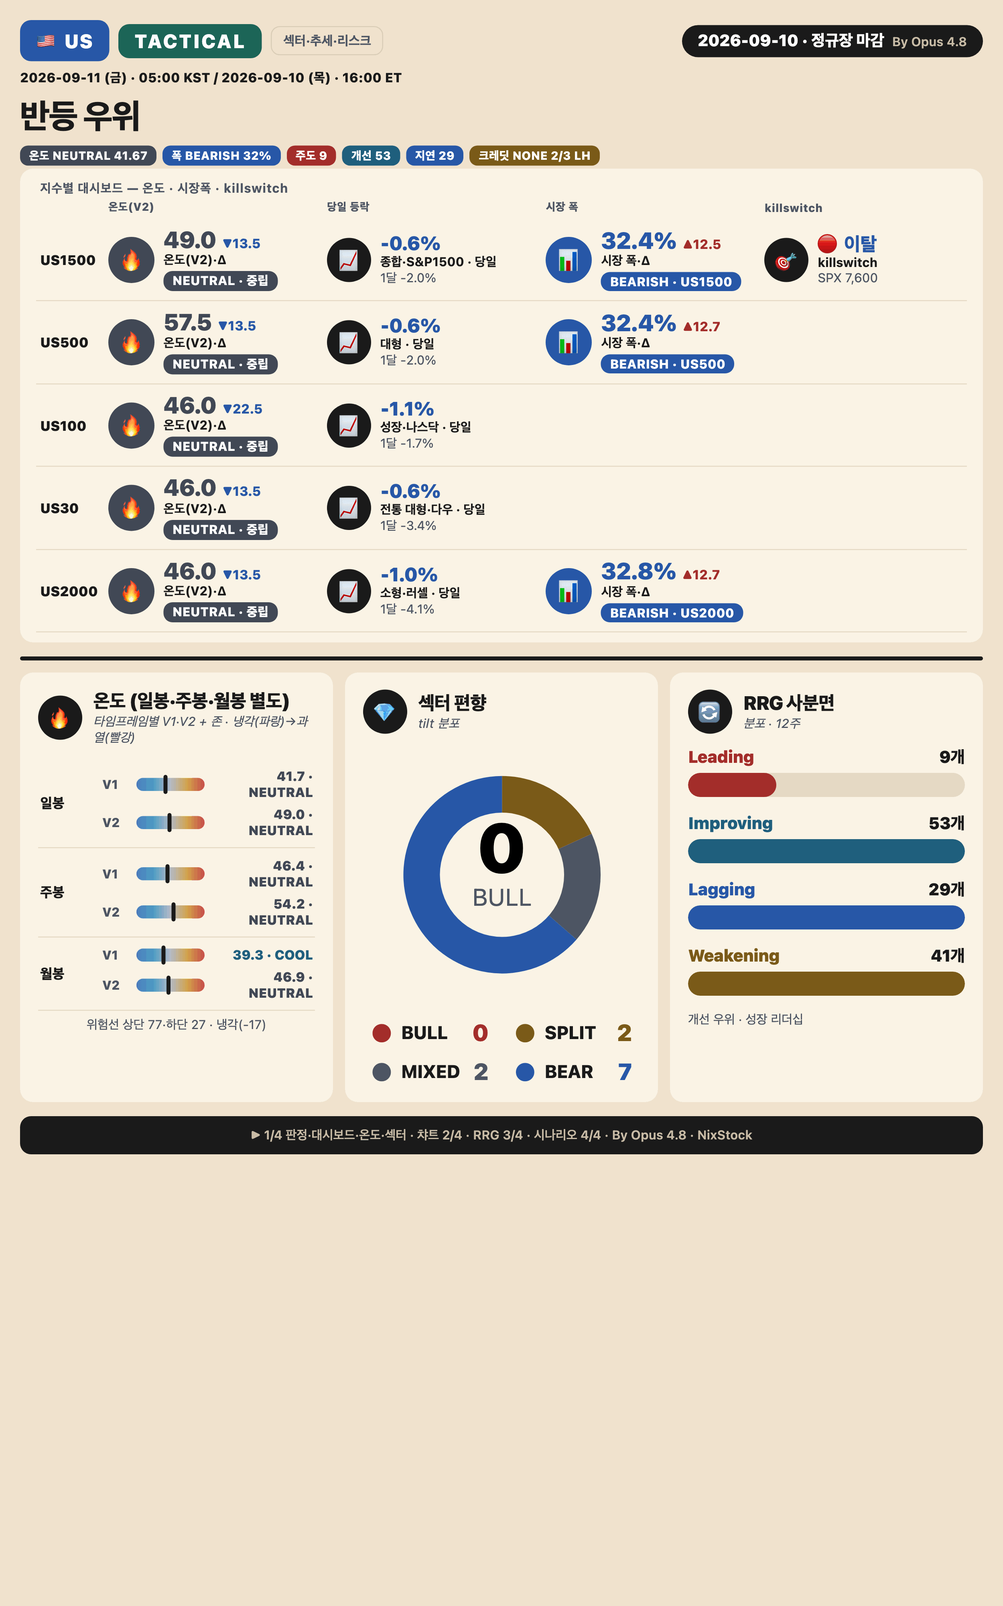
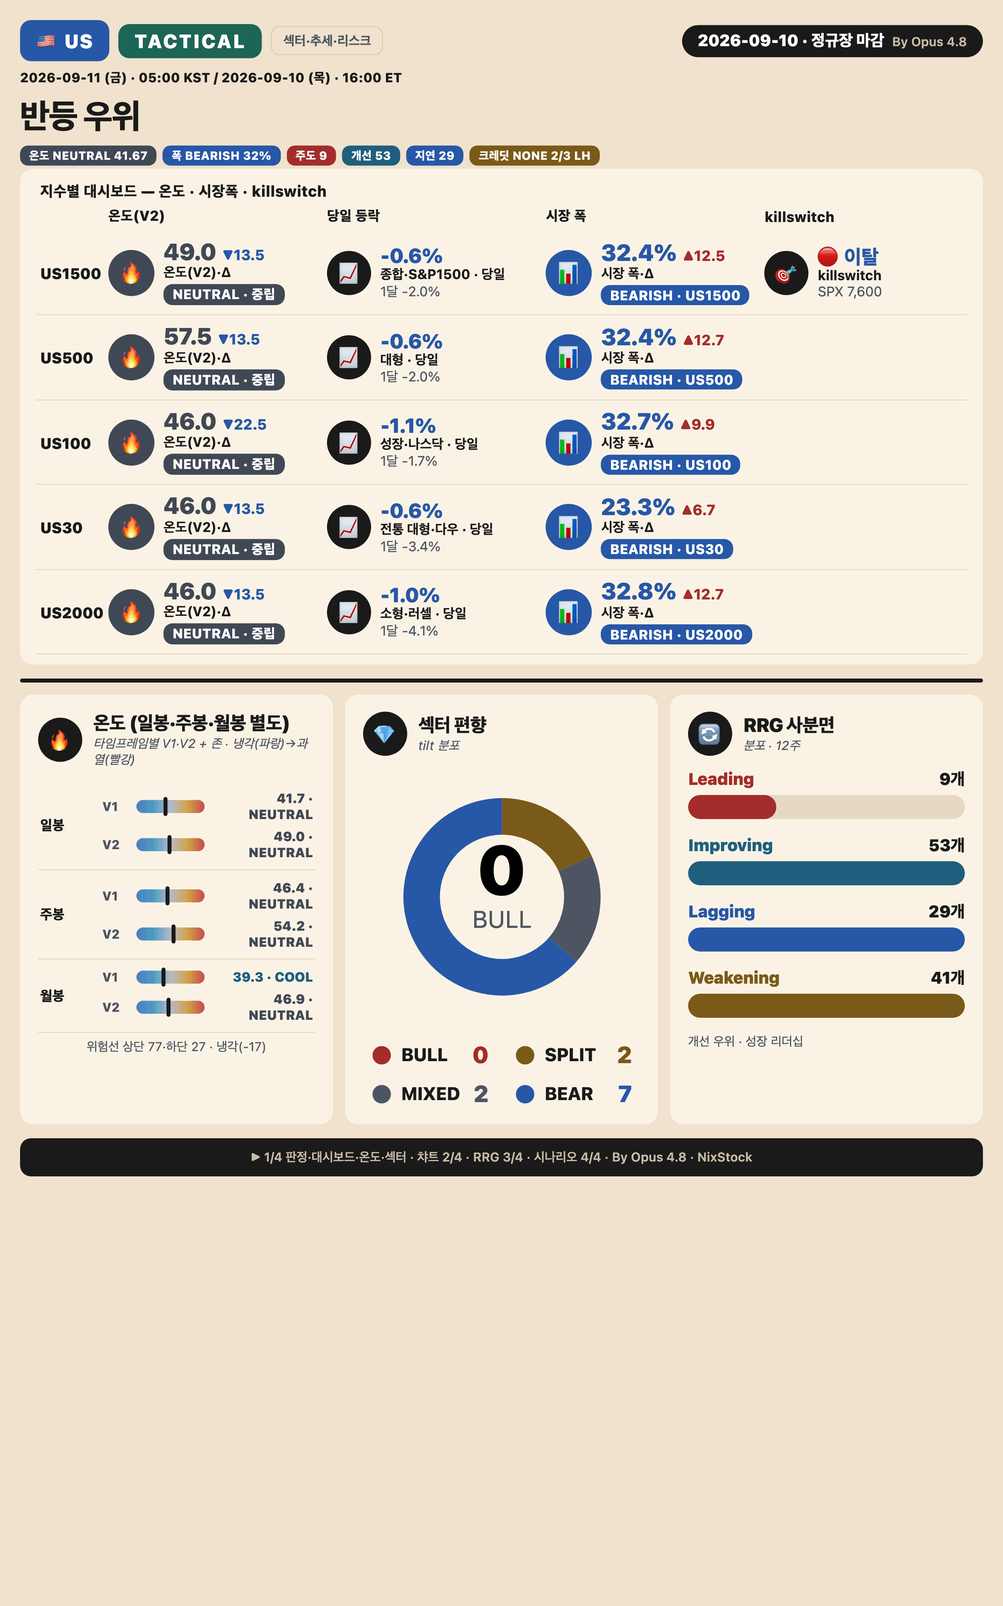
deploy: 2026-09-11 /Users/jichoi/Downloads/to_claude_web/tactical/2026-09-10_us_tactical_close

Changed region(s): [[0.0, 0.0938, 0.9984, 0.75]]

diff --git a/tactical/2026-09-10_us_tactical_close/infographic/us_tactical_infographic_2026-09-10_p1.html b/tactical/2026-09-10_us_tactical_close/infographic/us_tactical_infographic_2026-09-10_p1.html
@@ -11,8 +11,8 @@
 <div style="display:flex;flex-wrap:wrap;gap:6px;align-items:center;margin:7px 0 3px"><span style="display:inline-flex;align-items:center;background:#414855;color:#FFFFFF;font-weight:800;font-size:11.5px;padding:3px 9px;border-radius:8px;white-space:nowrap;letter-spacing:.2px">온도 NEUTRAL 41.67</span><span style="display:inline-flex;align-items:center;background:#2757A8;color:#FFFFFF;font-weight:800;font-size:11.5px;padding:3px 9px;border-radius:8px;white-space:nowrap;letter-spacing:.2px">폭 BEARISH 32%</span><span style="display:inline-flex;align-items:center;background:#A32E2B;color:#FFFFFF;font-weight:800;font-size:11.5px;padding:3px 9px;border-radius:8px;white-space:nowrap;letter-spacing:.2px">주도 9</span><span style="display:inline-flex;align-items:center;background:#1F5F7D;color:#FFFFFF;font-weight:800;font-size:11.5px;padding:3px 9px;border-radius:8px;white-space:nowrap;letter-spacing:.2px">개선 53</span><span style="display:inline-flex;align-items:center;background:#2757A8;color:#FFFFFF;font-weight:800;font-size:11.5px;padding:3px 9px;border-radius:8px;white-space:nowrap;letter-spacing:.2px">지연 29</span><span style="display:inline-flex;align-items:center;background:#7A5A18;color:#FFFFFF;font-weight:800;font-size:11.5px;padding:3px 9px;border-radius:8px;white-space:nowrap;letter-spacing:.2px">크레딧 NONE 2/3 LH</span></div>
 
 <div class="card" style="padding:6px 16px 10px">
-<div style="font-size:12.5px;color:#4E5563;font-weight:700;letter-spacing:.5px;padding:6px 4px 2px">지수별 대시보드 — 온도 · 시장폭 · killswitch</div>
-<div style="overflow-x:auto"><div style="min-width:760px"><div style="display:grid;grid-template-columns:58px 1fr 1fr 1fr 0.95fr;gap:10px;align-items:center;padding:1px 4px 5px;font-size:11px;color:#4E5563;font-weight:800;letter-spacing:.3px"><div></div><div>온도(V2)</div><div>당일 등락</div><div>시장 폭</div><div>killswitch</div></div><div style="display:grid;grid-template-columns:58px 1fr 1fr 1fr 0.95fr;gap:10px;align-items:center;padding:9px 4px;border-bottom:1px solid #E6DAC4"><div style="font-weight:900;color:#1A1A1A;font-size:13.5px">US1500</div><div style="display:flex;align-items:center;gap:9px;flex:1;min-width:150px"><div style="width:46px;height:46px;border-radius:50%;background:#414855;display:flex;align-items:center;justify-content:center;font-size:22px;flex:0 0 auto">&#128293;</div><div><div style="font-size:23px;font-weight:900;color:#414855;line-height:1.02">49.0<span style="font-size:13px;font-weight:800;color:#2757A8;margin-left:6px;white-space:nowrap">▼13.5</span></div><div style="font-size:12.5px;font-weight:700;margin-top:1px">온도(V2)·Δ</div><span style="display:inline-block;background:#414855;color:#fff;font-size:12.5px;font-weight:800;padding:2px 9px;border-radius:9px;margin-top:3px;letter-spacing:.2px">NEUTRAL · 중립</span></div></div><div style="display:flex;align-items:center;gap:9px;flex:1;min-width:150px"><div style="width:44px;height:44px;border-radius:50%;background:#1A1A1A;display:flex;align-items:center;justify-content:center;font-size:21px;flex:0 0 auto">&#128200;</div><div><div style="font-size:19px;font-weight:900;color:#2757A8;line-height:1.05">-0.6%</div><div style="font-size:12.5px;font-weight:700">종합·S&P1500 · 당일</div><div style="font-size:12.5px;color:#4E5563">1달 -2.0%</div></div></div><div style="display:flex;align-items:center;gap:9px;flex:1;min-width:150px"><div style="width:46px;height:46px;border-radius:50%;background:#2757A8;display:flex;align-items:center;justify-content:center;font-size:22px;flex:0 0 auto">&#128202;</div><div><div style="font-size:23px;font-weight:900;color:#2757A8;line-height:1.02">32.4%<span style="font-size:13px;font-weight:800;color:#A32E2B;margin-left:6px;white-space:nowrap">▲12.5</span></div><div style="font-size:12.5px;font-weight:700;margin-top:1px">시장 폭·Δ</div><span style="display:inline-block;background:#2757A8;color:#fff;font-size:12.5px;font-weight:800;padding:2px 9px;border-radius:9px;margin-top:3px;letter-spacing:.2px">BEARISH · US1500</span></div></div><div style="display:flex;align-items:center;gap:9px;flex:1;min-width:150px"><div style="width:44px;height:44px;border-radius:50%;background:#1A1A1A;display:flex;align-items:center;justify-content:center;font-size:21px;flex:0 0 auto">&#127919;</div><div><div style="font-size:19px;font-weight:900;color:#2757A8;line-height:1.05">🔴 이탈</div><div style="font-size:12.5px;font-weight:700">killswitch</div><div style="font-size:12.5px;color:#4E5563">SPX 7,600</div></div></div></div><div style="display:grid;grid-template-columns:58px 1fr 1fr 1fr 0.95fr;gap:10px;align-items:center;padding:9px 4px;border-bottom:1px solid #E6DAC4"><div style="font-weight:900;color:#1A1A1A;font-size:13.5px">US500</div><div style="display:flex;align-items:center;gap:9px;flex:1;min-width:150px"><div style="width:46px;height:46px;border-radius:50%;background:#414855;display:flex;align-items:center;justify-content:center;font-size:22px;flex:0 0 auto">&#128293;</div><div><div style="font-size:23px;font-weight:900;color:#414855;line-height:1.02">57.5<span style="font-size:13px;font-weight:800;color:#2757A8;margin-left:6px;white-space:nowrap">▼13.5</span></div><div style="font-size:12.5px;font-weight:700;margin-top:1px">온도(V2)·Δ</div><span style="display:inline-block;background:#414855;color:#fff;font-size:12.5px;font-weight:800;padding:2px 9px;border-radius:9px;margin-top:3px;letter-spacing:.2px">NEUTRAL · 중립</span></div></div><div style="display:flex;align-items:center;gap:9px;flex:1;min-width:150px"><div style="width:44px;height:44px;border-radius:50%;background:#1A1A1A;display:flex;align-items:center;justify-content:center;font-size:21px;flex:0 0 auto">&#128200;</div><div><div style="font-size:19px;font-weight:900;color:#2757A8;line-height:1.05">-0.6%</div><div style="font-size:12.5px;font-weight:700">대형 · 당일</div><div style="font-size:12.5px;color:#4E5563">1달 -2.0%</div></div></div><div style="display:flex;align-items:center;gap:9px;flex:1;min-width:150px"><div style="width:46px;height:46px;border-radius:50%;background:#2757A8;display:flex;align-items:center;justify-content:center;font-size:22px;flex:0 0 auto">&#128202;</div><div><div style="font-size:23px;font-weight:900;color:#2757A8;line-height:1.02">32.4%<span style="font-size:13px;font-weight:800;color:#A32E2B;margin-left:6px;white-space:nowrap">▲12.7</span></div><div style="font-size:12.5px;font-weight:700;margin-top:1px">시장 폭·Δ</div><span style="display:inline-block;background:#2757A8;color:#fff;font-size:12.5px;font-weight:800;padding:2px 9px;border-radius:9px;margin-top:3px;letter-spacing:.2px">BEARISH · US500</span></div></div><div></div></div><div style="display:grid;grid-template-columns:58px 1fr 1fr 1fr 0.95fr;gap:10px;align-items:center;padding:9px 4px;border-bottom:1px solid #E6DAC4"><div style="font-weight:900;color:#1A1A1A;font-size:13.5px">US100</div><div style="display:flex;align-items:center;gap:9px;flex:1;min-width:150px"><div style="width:46px;height:46px;border-radius:50%;background:#414855;display:flex;align-items:center;justify-content:center;font-size:22px;flex:0 0 auto">&#128293;</div><div><div style="font-size:23px;font-weight:900;color:#414855;line-height:1.02">46.0<span style="font-size:13px;font-weight:800;color:#2757A8;margin-left:6px;white-space:nowrap">▼22.5</span></div><div style="font-size:12.5px;font-weight:700;margin-top:1px">온도(V2)·Δ</div><span style="display:inline-block;background:#414855;color:#fff;font-size:12.5px;font-weight:800;padding:2px 9px;border-radius:9px;margin-top:3px;letter-spacing:.2px">NEUTRAL · 중립</span></div></div><div style="display:flex;align-items:center;gap:9px;flex:1;min-width:150px"><div style="width:44px;height:44px;border-radius:50%;background:#1A1A1A;display:flex;align-items:center;justify-content:center;font-size:21px;flex:0 0 auto">&#128200;</div><div><div style="font-size:19px;font-weight:900;color:#2757A8;line-height:1.05">-1.1%</div><div style="font-size:12.5px;font-weight:700">성장·나스닥 · 당일</div><div style="font-size:12.5px;color:#4E5563">1달 -1.7%</div></div></div><div></div><div></div></div><div style="display:grid;grid-template-columns:58px 1fr 1fr 1fr 0.95fr;gap:10px;align-items:center;padding:9px 4px;border-bottom:1px solid #E6DAC4"><div style="font-weight:900;color:#1A1A1A;font-size:13.5px">US30</div><div style="display:flex;align-items:center;gap:9px;flex:1;min-width:150px"><div style="width:46px;height:46px;border-radius:50%;background:#414855;display:flex;align-items:center;justify-content:center;font-size:22px;flex:0 0 auto">&#128293;</div><div><div style="font-size:23px;font-weight:900;color:#414855;line-height:1.02">46.0<span style="font-size:13px;font-weight:800;color:#2757A8;margin-left:6px;white-space:nowrap">▼13.5</span></div><div style="font-size:12.5px;font-weight:700;margin-top:1px">온도(V2)·Δ</div><span style="display:inline-block;background:#414855;color:#fff;font-size:12.5px;font-weight:800;padding:2px 9px;border-radius:9px;margin-top:3px;letter-spacing:.2px">NEUTRAL · 중립</span></div></div><div style="display:flex;align-items:center;gap:9px;flex:1;min-width:150px"><div style="width:44px;height:44px;border-radius:50%;background:#1A1A1A;display:flex;align-items:center;justify-content:center;font-size:21px;flex:0 0 auto">&#128200;</div><div><div style="font-size:19px;font-weight:900;color:#2757A8;line-height:1.05">-0.6%</div><div style="font-size:12.5px;font-weight:700">전통 대형·다우 · 당일</div><div style="font-size:12.5px;color:#4E5563">1달 -3.4%</div></div></div><div></div><div></div></div><div style="display:grid;grid-template-columns:58px 1fr 1fr 1fr 0.95fr;gap:10px;align-items:center;padding:9px 4px;border-bottom:1px solid #E6DAC4"><div style="font-weight:900;color:#1A1A1A;font-size:13.5px">US2000</div><div style="display:flex;align-items:center;gap:9px;flex:1;min-width:150px"><div style="width:46px;height:46px;border-radius:50%;background:#414855;display:flex;align-items:center;justify-content:center;font-size:22px;flex:0 0 auto">&#128293;</div><div><div style="font-size:23px;font-weight:900;color:#414855;line-height:1.02">46.0<span style="font-size:13px;font-weight:800;color:#2757A8;margin-left:6px;white-space:nowrap">▼13.5</span></div><div style="font-size:12.5px;font-weight:700;margin-top:1px">온도(V2)·Δ</div><span style="display:inline-block;background:#414855;color:#fff;font-size:12.5px;font-weight:800;padding:2px 9px;border-radius:9px;margin-top:3px;letter-spacing:.2px">NEUTRAL · 중립</span></div></div><div style="display:flex;align-items:center;gap:9px;flex:1;min-width:150px"><div style="width:44px;height:44px;border-radius:50%;background:#1A1A1A;display:flex;align-items:center;justify-content:center;font-size:21px;flex:0 0 auto">&#128200;</div><div><div style="font-size:19px;font-weight:900;color:#2757A8;line-height:1.05">-1.0%</div><div style="font-size:12.5px;font-weight:700">소형·러셀 · 당일</div><div style="font-size:12.5px;color:#4E5563">1달 -4.1%</div></div></div><div style="display:flex;align-items:center;gap:9px;flex:1;min-width:150px"><div style="width:46px;height:46px;border-radius:50%;background:#2757A8;display:flex;align-items:center;justify-content:center;font-size:22px;flex:0 0 auto">&#128202;</div><div><div style="font-size:23px;font-weight:900;color:#2757A8;line-height:1.02">32.8%<span style="font-size:13px;font-weight:800;color:#A32E2B;margin-left:6px;white-space:nowrap">▲12.7</span></div><div style="font-size:12.5px;font-weight:700;margin-top:1px">시장 폭·Δ</div><span style="display:inline-block;background:#2757A8;color:#fff;font-size:12.5px;font-weight:800;padding:2px 9px;border-radius:9px;margin-top:3px;letter-spacing:.2px">BEARISH · US2000</span></div></div><div></div></div></div></div><div style="border-bottom:none"></div>
+<div style="font-size:15px;color:#1A1A1A;font-weight:800;letter-spacing:.3px;padding:7px 4px 3px">지수별 대시보드 — 온도 · 시장폭 · killswitch</div>
+<div style="overflow-x:auto"><div style="min-width:760px"><div style="display:grid;grid-template-columns:58px 1fr 1fr 1fr 0.95fr;gap:10px;align-items:center;padding:2px 4px 6px;font-size:14px;color:#1A1A1A;font-weight:800;letter-spacing:.2px"><div></div><div>온도(V2)</div><div>당일 등락</div><div>시장 폭</div><div>killswitch</div></div><div style="display:grid;grid-template-columns:58px 1fr 1fr 1fr 0.95fr;gap:10px;align-items:center;padding:9px 4px;border-bottom:1px solid #E6DAC4"><div style="font-weight:900;color:#1A1A1A;font-size:15px">US1500</div><div style="display:flex;align-items:center;gap:9px;flex:1;min-width:150px"><div style="width:46px;height:46px;border-radius:50%;background:#414855;display:flex;align-items:center;justify-content:center;font-size:22px;flex:0 0 auto">&#128293;</div><div><div style="font-size:23px;font-weight:900;color:#414855;line-height:1.02">49.0<span style="font-size:14.5px;font-weight:800;color:#2757A8;margin-left:6px;white-space:nowrap">▼13.5</span></div><div style="font-size:13.5px;font-weight:700;margin-top:1px">온도(V2)·Δ</div><span style="display:inline-block;background:#414855;color:#fff;font-size:13.5px;font-weight:800;padding:2px 9px;border-radius:9px;margin-top:3px;letter-spacing:.2px">NEUTRAL · 중립</span></div></div><div style="display:flex;align-items:center;gap:9px;flex:1;min-width:150px"><div style="width:44px;height:44px;border-radius:50%;background:#1A1A1A;display:flex;align-items:center;justify-content:center;font-size:21px;flex:0 0 auto">&#128200;</div><div><div style="font-size:20px;font-weight:900;color:#2757A8;line-height:1.05">-0.6%</div><div style="font-size:13.5px;font-weight:700">종합·S&P1500 · 당일</div><div style="font-size:13.5px;color:#4E5563">1달 -2.0%</div></div></div><div style="display:flex;align-items:center;gap:9px;flex:1;min-width:150px"><div style="width:46px;height:46px;border-radius:50%;background:#2757A8;display:flex;align-items:center;justify-content:center;font-size:22px;flex:0 0 auto">&#128202;</div><div><div style="font-size:23px;font-weight:900;color:#2757A8;line-height:1.02">32.4%<span style="font-size:14.5px;font-weight:800;color:#A32E2B;margin-left:6px;white-space:nowrap">▲12.5</span></div><div style="font-size:13.5px;font-weight:700;margin-top:1px">시장 폭·Δ</div><span style="display:inline-block;background:#2757A8;color:#fff;font-size:13.5px;font-weight:800;padding:2px 9px;border-radius:9px;margin-top:3px;letter-spacing:.2px">BEARISH · US1500</span></div></div><div style="display:flex;align-items:center;gap:9px;flex:1;min-width:150px"><div style="width:44px;height:44px;border-radius:50%;background:#1A1A1A;display:flex;align-items:center;justify-content:center;font-size:21px;flex:0 0 auto">&#127919;</div><div><div style="font-size:20px;font-weight:900;color:#2757A8;line-height:1.05">🔴 이탈</div><div style="font-size:13.5px;font-weight:700">killswitch</div><div style="font-size:13.5px;color:#4E5563">SPX 7,600</div></div></div></div><div style="display:grid;grid-template-columns:58px 1fr 1fr 1fr 0.95fr;gap:10px;align-items:center;padding:9px 4px;border-bottom:1px solid #E6DAC4"><div style="font-weight:900;color:#1A1A1A;font-size:15px">US500</div><div style="display:flex;align-items:center;gap:9px;flex:1;min-width:150px"><div style="width:46px;height:46px;border-radius:50%;background:#414855;display:flex;align-items:center;justify-content:center;font-size:22px;flex:0 0 auto">&#128293;</div><div><div style="font-size:23px;font-weight:900;color:#414855;line-height:1.02">57.5<span style="font-size:14.5px;font-weight:800;color:#2757A8;margin-left:6px;white-space:nowrap">▼13.5</span></div><div style="font-size:13.5px;font-weight:700;margin-top:1px">온도(V2)·Δ</div><span style="display:inline-block;background:#414855;color:#fff;font-size:13.5px;font-weight:800;padding:2px 9px;border-radius:9px;margin-top:3px;letter-spacing:.2px">NEUTRAL · 중립</span></div></div><div style="display:flex;align-items:center;gap:9px;flex:1;min-width:150px"><div style="width:44px;height:44px;border-radius:50%;background:#1A1A1A;display:flex;align-items:center;justify-content:center;font-size:21px;flex:0 0 auto">&#128200;</div><div><div style="font-size:20px;font-weight:900;color:#2757A8;line-height:1.05">-0.6%</div><div style="font-size:13.5px;font-weight:700">대형 · 당일</div><div style="font-size:13.5px;color:#4E5563">1달 -2.0%</div></div></div><div style="display:flex;align-items:center;gap:9px;flex:1;min-width:150px"><div style="width:46px;height:46px;border-radius:50%;background:#2757A8;display:flex;align-items:center;justify-content:center;font-size:22px;flex:0 0 auto">&#128202;</div><div><div style="font-size:23px;font-weight:900;color:#2757A8;line-height:1.02">32.4%<span style="font-size:14.5px;font-weight:800;color:#A32E2B;margin-left:6px;white-space:nowrap">▲12.7</span></div><div style="font-size:13.5px;font-weight:700;margin-top:1px">시장 폭·Δ</div><span style="display:inline-block;background:#2757A8;color:#fff;font-size:13.5px;font-weight:800;padding:2px 9px;border-radius:9px;margin-top:3px;letter-spacing:.2px">BEARISH · US500</span></div></div><div></div></div><div style="display:grid;grid-template-columns:58px 1fr 1fr 1fr 0.95fr;gap:10px;align-items:center;padding:9px 4px;border-bottom:1px solid #E6DAC4"><div style="font-weight:900;color:#1A1A1A;font-size:15px">US100</div><div style="display:flex;align-items:center;gap:9px;flex:1;min-width:150px"><div style="width:46px;height:46px;border-radius:50%;background:#414855;display:flex;align-items:center;justify-content:center;font-size:22px;flex:0 0 auto">&#128293;</div><div><div style="font-size:23px;font-weight:900;color:#414855;line-height:1.02">46.0<span style="font-size:14.5px;font-weight:800;color:#2757A8;margin-left:6px;white-space:nowrap">▼22.5</span></div><div style="font-size:13.5px;font-weight:700;margin-top:1px">온도(V2)·Δ</div><span style="display:inline-block;background:#414855;color:#fff;font-size:13.5px;font-weight:800;padding:2px 9px;border-radius:9px;margin-top:3px;letter-spacing:.2px">NEUTRAL · 중립</span></div></div><div style="display:flex;align-items:center;gap:9px;flex:1;min-width:150px"><div style="width:44px;height:44px;border-radius:50%;background:#1A1A1A;display:flex;align-items:center;justify-content:center;font-size:21px;flex:0 0 auto">&#128200;</div><div><div style="font-size:20px;font-weight:900;color:#2757A8;line-height:1.05">-1.1%</div><div style="font-size:13.5px;font-weight:700">성장·나스닥 · 당일</div><div style="font-size:13.5px;color:#4E5563">1달 -1.7%</div></div></div><div style="display:flex;align-items:center;gap:9px;flex:1;min-width:150px"><div style="width:46px;height:46px;border-radius:50%;background:#2757A8;display:flex;align-items:center;justify-content:center;font-size:22px;flex:0 0 auto">&#128202;</div><div><div style="font-size:23px;font-weight:900;color:#2757A8;line-height:1.02">32.7%<span style="font-size:14.5px;font-weight:800;color:#A32E2B;margin-left:6px;white-space:nowrap">▲9.9</span></div><div style="font-size:13.5px;font-weight:700;margin-top:1px">시장 폭·Δ</div><span style="display:inline-block;background:#2757A8;color:#fff;font-size:13.5px;font-weight:800;padding:2px 9px;border-radius:9px;margin-top:3px;letter-spacing:.2px">BEARISH · US100</span></div></div><div></div></div><div style="display:grid;grid-template-columns:58px 1fr 1fr 1fr 0.95fr;gap:10px;align-items:center;padding:9px 4px;border-bottom:1px solid #E6DAC4"><div style="font-weight:900;color:#1A1A1A;font-size:15px">US30</div><div style="display:flex;align-items:center;gap:9px;flex:1;min-width:150px"><div style="width:46px;height:46px;border-radius:50%;background:#414855;display:flex;align-items:center;justify-content:center;font-size:22px;flex:0 0 auto">&#128293;</div><div><div style="font-size:23px;font-weight:900;color:#414855;line-height:1.02">46.0<span style="font-size:14.5px;font-weight:800;color:#2757A8;margin-left:6px;white-space:nowrap">▼13.5</span></div><div style="font-size:13.5px;font-weight:700;margin-top:1px">온도(V2)·Δ</div><span style="display:inline-block;background:#414855;color:#fff;font-size:13.5px;font-weight:800;padding:2px 9px;border-radius:9px;margin-top:3px;letter-spacing:.2px">NEUTRAL · 중립</span></div></div><div style="display:flex;align-items:center;gap:9px;flex:1;min-width:150px"><div style="width:44px;height:44px;border-radius:50%;background:#1A1A1A;display:flex;align-items:center;justify-content:center;font-size:21px;flex:0 0 auto">&#128200;</div><div><div style="font-size:20px;font-weight:900;color:#2757A8;line-height:1.05">-0.6%</div><div style="font-size:13.5px;font-weight:700">전통 대형·다우 · 당일</div><div style="font-size:13.5px;color:#4E5563">1달 -3.4%</div></div></div><div style="display:flex;align-items:center;gap:9px;flex:1;min-width:150px"><div style="width:46px;height:46px;border-radius:50%;background:#2757A8;display:flex;align-items:center;justify-content:center;font-size:22px;flex:0 0 auto">&#128202;</div><div><div style="font-size:23px;font-weight:900;color:#2757A8;line-height:1.02">23.3%<span style="font-size:14.5px;font-weight:800;color:#A32E2B;margin-left:6px;white-space:nowrap">▲6.7</span></div><div style="font-size:13.5px;font-weight:700;margin-top:1px">시장 폭·Δ</div><span style="display:inline-block;background:#2757A8;color:#fff;font-size:13.5px;font-weight:800;padding:2px 9px;border-radius:9px;margin-top:3px;letter-spacing:.2px">BEARISH · US30</span></div></div><div></div></div><div style="display:grid;grid-template-columns:58px 1fr 1fr 1fr 0.95fr;gap:10px;align-items:center;padding:9px 4px;border-bottom:1px solid #E6DAC4"><div style="font-weight:900;color:#1A1A1A;font-size:15px">US2000</div><div style="display:flex;align-items:center;gap:9px;flex:1;min-width:150px"><div style="width:46px;height:46px;border-radius:50%;background:#414855;display:flex;align-items:center;justify-content:center;font-size:22px;flex:0 0 auto">&#128293;</div><div><div style="font-size:23px;font-weight:900;color:#414855;line-height:1.02">46.0<span style="font-size:14.5px;font-weight:800;color:#2757A8;margin-left:6px;white-space:nowrap">▼13.5</span></div><div style="font-size:13.5px;font-weight:700;margin-top:1px">온도(V2)·Δ</div><span style="display:inline-block;background:#414855;color:#fff;font-size:13.5px;font-weight:800;padding:2px 9px;border-radius:9px;margin-top:3px;letter-spacing:.2px">NEUTRAL · 중립</span></div></div><div style="display:flex;align-items:center;gap:9px;flex:1;min-width:150px"><div style="width:44px;height:44px;border-radius:50%;background:#1A1A1A;display:flex;align-items:center;justify-content:center;font-size:21px;flex:0 0 auto">&#128200;</div><div><div style="font-size:20px;font-weight:900;color:#2757A8;line-height:1.05">-1.0%</div><div style="font-size:13.5px;font-weight:700">소형·러셀 · 당일</div><div style="font-size:13.5px;color:#4E5563">1달 -4.1%</div></div></div><div style="display:flex;align-items:center;gap:9px;flex:1;min-width:150px"><div style="width:46px;height:46px;border-radius:50%;background:#2757A8;display:flex;align-items:center;justify-content:center;font-size:22px;flex:0 0 auto">&#128202;</div><div><div style="font-size:23px;font-weight:900;color:#2757A8;line-height:1.02">32.8%<span style="font-size:14.5px;font-weight:800;color:#A32E2B;margin-left:6px;white-space:nowrap">▲12.7</span></div><div style="font-size:13.5px;font-weight:700;margin-top:1px">시장 폭·Δ</div><span style="display:inline-block;background:#2757A8;color:#fff;font-size:13.5px;font-weight:800;padding:2px 9px;border-radius:9px;margin-top:3px;letter-spacing:.2px">BEARISH · US2000</span></div></div><div></div></div></div></div><div style="border-bottom:none"></div>
 </div>
 
 <div class="dv"></div>
